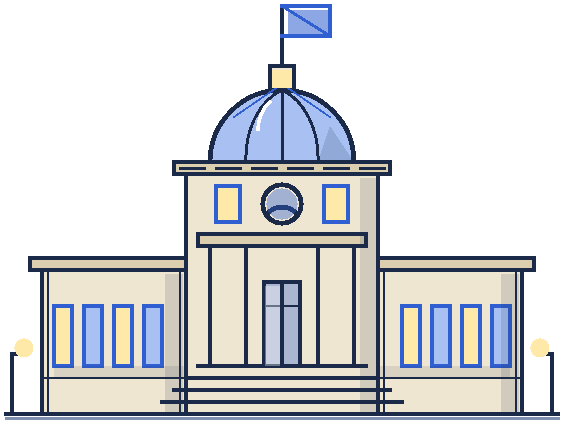
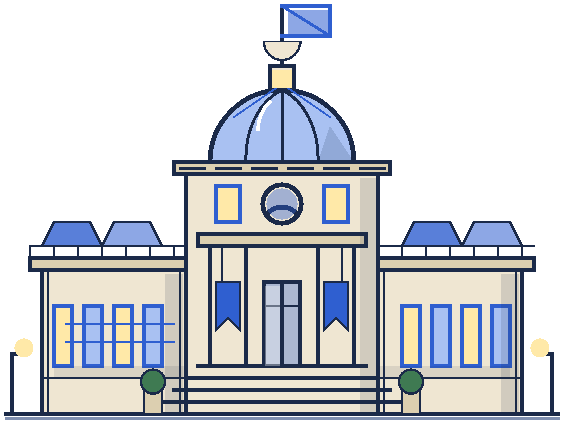
🏛🏗 ↝ [SSL-785, SSL-792]: Agency stage 4 (level-2 look) and first upgrade drawings for launchpad, exchange, hangar
Claude-Session: https://claude.ai/code/session_01Ja5QjMYPH6hgBvLmZXkrHt

diff --git a/docs/art/structures/README.md b/docs/art/structures/README.md
@@ -1,0 +1,13 @@
+# Structure upgrade drawings (SSL-792, SSL-693)
+
+First-pass line art for upgrade levels, same language as the Agency building (`docs/art/agency-building/`): navy outline, cream walls, blue accents, teal and warm crate colours. Each folder holds `<kind>-l1/l2/l3.svg` plus `.png` renders and a `sheet.png` contact sheet. SVGs are sources; nothing here is wired into the game yet.
+
+| Structure | L1 (matches in-game) | L2 | L3 |
+| --- | --- | --- | --- |
+| Launchpad | 3 service arms, one hut | Taller tower, 5 arms, longer deck, flame trench, water tank | Catch arms over the pad, landing legs and ring, recovery loop, light tower (reuse of vehicles, per SSL-693) |
+| Exchange | Sign, one conveyor, one hall | Second conveyor, bigger hall, ticker screen, more crates | Gantry crane and container stack, glass trading floor, dish |
+| Hangar | One bay, annex | Two bays, taller, tool shed | High bay with overhead crane and a vehicle on the stand |
+
+Control station / Agency: stages 1 to 4 in `docs/art/agency-building/`. Stage 4 is the level-2 look and is the live sprite.
+
+Open before wiring: levels per building, what each level unlocks, costs (Liam's call, SSL-792). Sprite frames (width/height in `base-site.json`) are not set; each drawing uses its own viewBox. To use one: render transparent with Chromium, add a `base-site.json` entry per level, then sync with `node scripts/sync-base-site.mjs`.

diff --git a/docs/art/agency-building/README.md b/docs/art/agency-building/README.md
@@ -10,5 +10,6 @@
 
 - Stage 1: `agency-stage1.svg` / `.png` is the drawing with no background, used as the sprite (`web/public/game/assets/base/v7/structures/agency.png`, site map entry `agency`). Preview: `/game/stage?preset=hub-first-run`.
 - Stage 2: `agency-stage2.svg` / `.png` (now the live `agency.png`) adds cream wall fills, pale blue glass and dome, cornice and dentils, pilasters, door glass and a ground shadow line. Still outlined.
+- Stage 4: `agency-stage4.svg` / `.png` (now live) is the level-2 look: roof rails and solar, planters, banners, dish.
 - Next stages edit the SVG, re-render with Chromium (transparent) and overwrite `agency.png`.
 - Stage 3: `agency-stage3.svg` / `.png` (now live) adds night light: warm lit panes, shaded east sides of each block, dome shadow and highlight, flag fill, lamp glows. Next ideas: a level-2 look, roof details, planters.
